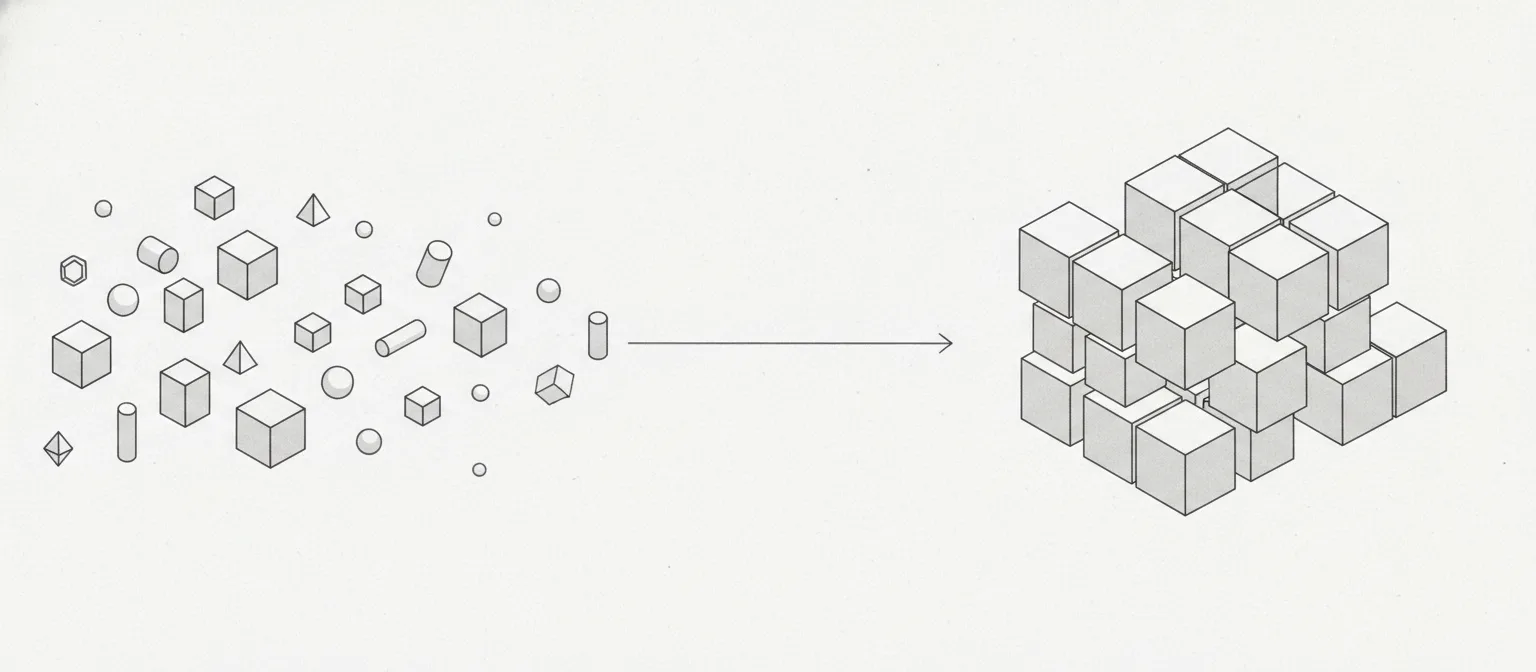
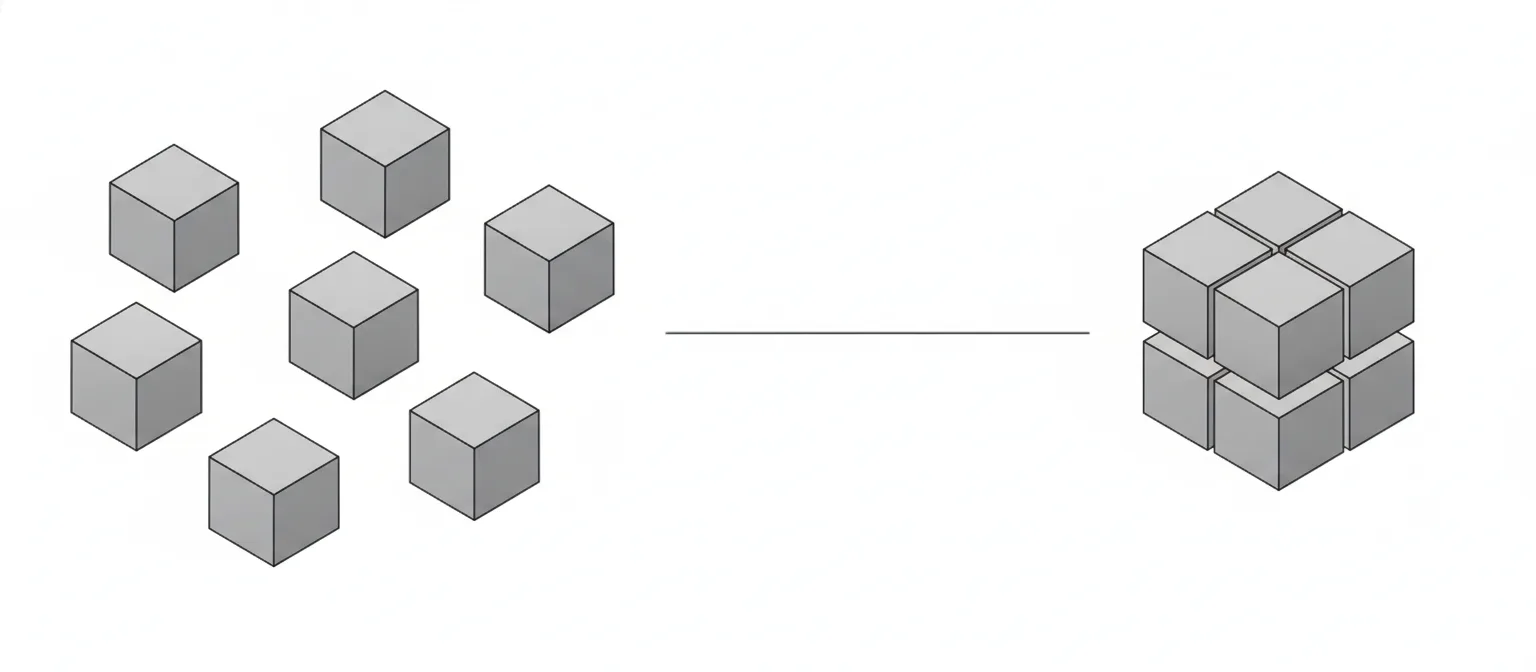
Rehace la portada de migración para que se lea en móvil
La versión anterior tenía unas 25 formas pequeñas a la izquierda. En escritorio
funcionaba, pero en un iPhone SE la columna mide ~335 px y a 3:1 la imagen sale
de 112 px de alto: esas formas se convertían en motas grises y se leía "ruido
gris → mancha gris". La metáfora, que era lo único que la imagen tenía que
comunicar, era lo primero en caerse.

No era un problema de proporción, así que no se arreglaba recortando: la
composición va de izquierda a derecha y un recorte más cuadrado se lleva uno de
los dos extremos. Dejarla sin recortar daba 150 px, igual de insuficiente. El
problema era el número de objetos.

Regenerada con seis cubos grandes. Verificado simulando el recorte del layout a
335 px: a 112 px de alto se distinguen los cubos sueltos, la línea y el bloque
unido. Un solo archivo sirve para las dos medidas, que importa porque PageLayout
usa src directo sin srcset y la dirección de arte por punto de corte habría
exigido tocar ese layout.

De las tres nuevas se descartó una por tener los cubos en rejilla regular 3×2
—eso no se lee como "disperso" sino como "ordenado", y mata la metáfora— y otra
por traer texto colado del prompt en una esquina. Elegida la de relleno gris con
sombreado en vez de la de contorno fino: a 112 px de alto el relleno se
distingue y el contorno se pierde.

De paso baja de 32 KB a 18 KB: menos trazo, menos peso.

diff --git a/docs/plan-web.md b/docs/plan-web.md
@@ -1268,16 +1268,40 @@ modelo compone para el marco de banda en lugar de dejar el motivo centrado con
 aire muerto que hay que quitar después. Salió a 2,29:1, prácticamente la banda
 que ya se había validado en `/erpnext`.
 
-De las tres variantes se descartó una por un motivo que no era estético: **el
-mensaje se leía al revés**. Su lado derecho parecía una ciudad caótica, más
+De la primera tanda se descartó una variante por un motivo que no era estético:
+**el mensaje se leía al revés**. Su lado derecho parecía una ciudad caótica, más
 compleja que el izquierdo, así que sugería que migrar te deja *más* lío. Eso
 importa más que si la imagen es bonita.
 
-**El fondo sale en `rgb(241,241,237)`** y se deja tal cual: son 14 puntos por
-debajo del blanco y apenas cálido, el mismo registro de papel que la portada de
-`/erpnext`, y dentro de un contenedor con borde se lee como intencionado.
+### Se regeneró por el móvil
 
-**1.428 KB de PNG → 32 KB de WebP.** Sin variante de 800 px porque `PageLayout`
+La primera versión elegida tenía **unas 25 formas pequeñas** a la izquierda. En
+escritorio funcionaba; en un iPhone SE la columna mide ~335 px, así que a 3:1 la
+imagen sale de **112 px de alto** y esas formas se convertían en motas grises:
+se leía "ruido gris → mancha gris" y la metáfora —lo único que la imagen tenía
+que comunicar— era lo primero en caerse.
+
+No era un problema de proporción, y por eso no se arreglaba recortando: la
+composición va de izquierda a derecha, así que un recorte más cuadrado se lleva
+uno de los dos extremos, o sea el mensaje. Y dejarla sin recortar daba 150 px,
+igual de insuficiente. **El problema era el número de objetos.**
+
+Regenerada con **seis cubos grandes** en vez de veinticinco motas. Verificado
+simulando el recorte del layout a 335 px de ancho: a 112 px de alto se
+distinguen los cubos sueltos, la línea y el bloque unido. Un solo archivo sirve
+para las dos medidas, que importa porque `PageLayout` usa `src` directo sin
+`srcset` — la dirección de arte por punto de corte habría exigido tocar ese
+layout.
+
+Descartadas las otras dos de la segunda tanda: una tenía los cubos de la
+izquierda en **rejilla regular 3×2**, que no se lee como "disperso" sino como
+"ordenado" y mata la metáfora; la otra traía **texto colado** del prompt en una
+esquina. Se eligió la de relleno gris con sombreado y no la de contorno fino,
+porque a 112 px de alto el relleno se distingue y el contorno se pierde.
+
+**1.428 KB de PNG → 18 KB de WebP**, y de paso menos que los 32 KB de la
+versión anterior: menos trazo, menos peso. Fondo en blanco puro esta vez, así
+que tampoco hizo falta valorar el tono de papel. Sin variante de 800 px porque `PageLayout`
 usa `src` directo sin `srcset`: un archivo que nadie referencia es un archivo
 muerto.
 
